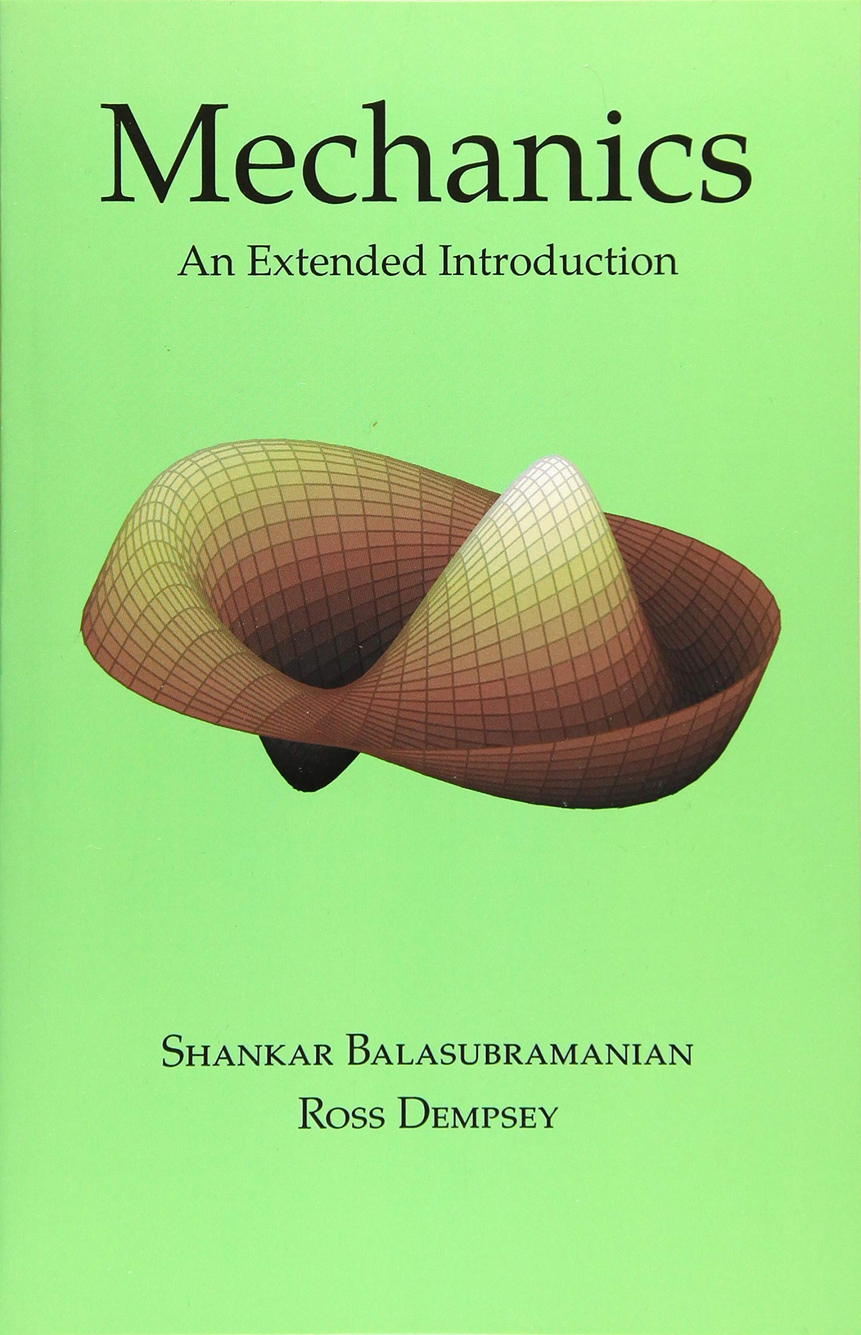
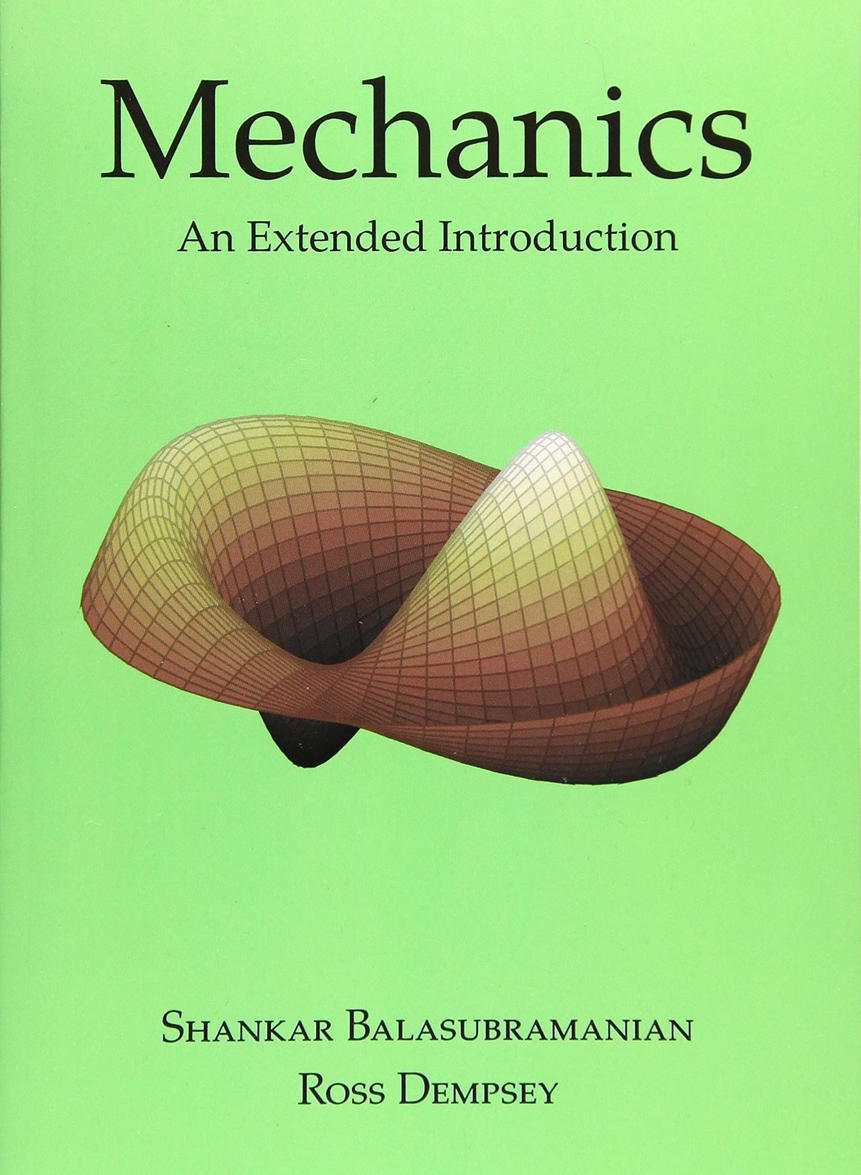
better image fit

diff --git a/CSS/a.css b/CSS/a.css
@@ -256,7 +256,8 @@ body {
 }
 
 .resources .col-c img {
-    width: 100%;
+    min-width: 100%;
+    max-height: 48vh;
 }
 
 .resources .title {

diff --git a/CSS/b.css b/CSS/b.css
@@ -256,7 +256,8 @@ body {
 }
 
 .resources .col-c img {
-    width: 100%;
+    min-width: 100%;
+    max-height: 48vh;
 }
 
 .resources .title {

diff --git a/CSS/c.css b/CSS/c.css
@@ -256,7 +256,8 @@ body {
 }
 
 .resources .col-c img {
-    width: 100%;
+    min-width: 100%;
+    max-height: 48vh;
 }
 
 .resources .title {
